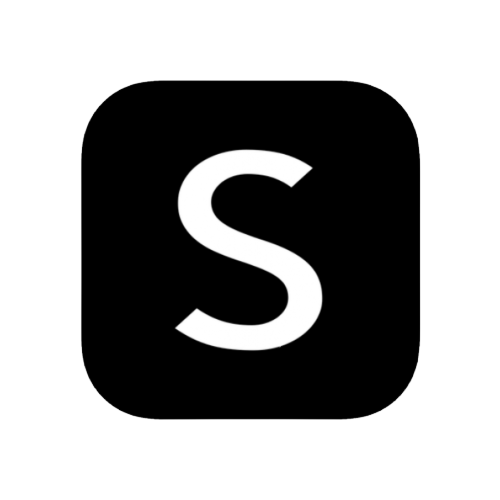
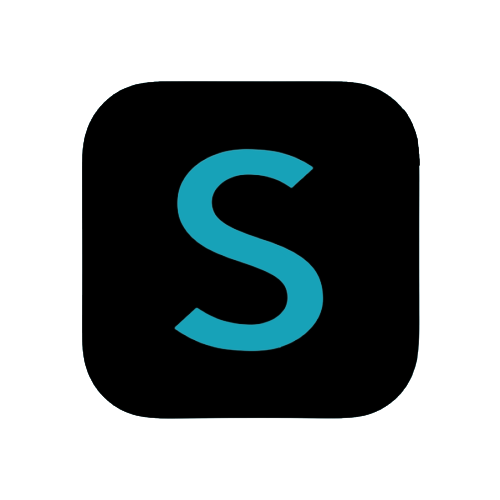
cambios

diff --git a/Proyecto/Contacto.html b/Proyecto/Contacto.html
@@ -74,23 +74,23 @@
       <div class="col-lg-1 d-none d-lg-block border-right">
         <div class="d-flex lista">
           <ul class="list-unstyled  ">
-            <li class="sideways"><a href="https://www.instagram.com/?hl=es-la" class="text-light"> Instagram</a></li>
-            <li class="sideways"><a href="https://www.facebook.com" class="text-light"> Facebook</a></li>
-            <li class="sideways"><a href="https://twitter.com" class="text-light"> Twitter</a></li>
-            <li class="sideways"><a href="https://www.whatsapp.com" class="text-light"> WhatsApp</a></li>
+            <li class="sideways"><a href="https://www.instagram.com/?hl=es-la" class="boton"> Instagram</a></li>
+            <li class="sideways"><a href="https://www.facebook.com" class="boton"> Facebook</a></li>
+            <li class="sideways"><a href="https://twitter.com" class="boton"> Twitter</a></li>
+            <li class="sideways"><a href="https://www.whatsapp.com" class="boton"> WhatsApp</a></li>
           </ul>
         </div>
       </div>
 
       <div class="col-lg-6 col-md-6 col-sm-11 p-1">
-        <div class="mapouter container align-self-center px-5 content">
+        <div class="mapouter container align-self-center px-5 content mapa">
           <div class="gmap_canvas">
             <iframe width="600" height="500" id="gmap_canvas"
               src="https://maps.google.com/maps?q=tegucigalpa&t=&z=15&ie=UTF8&iwloc=&output=embed" frameborder="0"
               scrolling="no" marginheight="0" marginwidth="0">
 
             </iframe>
-            <a href="https://123movies-to.org">123movies</a>
+            
             <br>
             <style>
               .mapouter {
@@ -98,7 +98,7 @@
                 text-align: right;
               }
             </style>
-            <a href="https://www.embedgooglemap.net">embed google map into website</a>
+            
             <style>
               .gmap_canvas {
                 overflow: hidden;
@@ -110,7 +110,7 @@
       </div>
 
       <div class="col-lg-5 col-md-6 col-sm-11 d-flex p-1">
-        <div class="container align-self-center px-5 content form">
+        <div class="container align-self-center px-5 content form formulario">
           <!-- Default form contact -->
           <form class="text-center border border-light p-5" action="#!" id="form">
 

diff --git a/Proyecto/homePage.html b/Proyecto/homePage.html
@@ -42,7 +42,7 @@
               </li>
 
               <div class="dropdown boton">
-                <button style="border: none; padding-top: 9px; padding-left: 10px; font-weight: 200;"
+                <button style="border: none; padding-top: 9px; font-weight: 200;"
                   class=" boton lead nav-link" type="button" id="dropdownMenuMenu" data-toggle="dropdown"
                   aria-haspopup="true" aria-expanded="false">
                   Categorias
@@ -77,23 +77,21 @@
             <li class="sideways"><a href="https://www.facebook.com" class="boton"> Facebook</a></li>
             <li class="sideways"><a href="https://twitter.com" class="boton"> Twitter</a></li>
             <li class="sideways"><a href="https://www.whatsapp.com" class="boton"> WhatsApp</a></li>
-
           </ul>
         </div>
-
       </div>
 
 
       <div class="col-lg-4 col-md-5 col-sm-11  d-flex">
         <div class="container align-self-center px-5 content">
-          <h1 class="text-uppercase font-weight-bold mb-4">¡Tu Ropa Perfecta!</h1>
+          <h1 class="text-uppercase font-weight-bold mb-4 titulo">¡Tu Ropa Perfecta!</h1>
           <p class="lead-xl mb-4">Obtenemos nuestros insumos de las mejores fabricas y lo convertimos en la ropa ideal
           </p>
-          <a href="#" class="btn btn-primary">Comenzar</a>
+          
         </div>
       </div>
       
-      <div class="col-lg-6 col-md-6 col-sm-11  mt-10 p-4">
+      <div class="col-lg-6 col-md-6 col-sm-11  mt-10  bajar">
         <div id="carouselExampleIndicators" class="carousel slide" data-ride="carousel">
           <ol class="carousel-indicators">
             <li data-target="#carouselExampleIndicators" data-slide-to="0" class="active"></li>
@@ -159,7 +157,7 @@
             <!--Grid column-->
             <div class="col-auto">
               <p class="pt-2">
-                <strong>Suscribete a nuestro boletín</strong>
+                <strong class="titulo">Suscribete a nuestro boletín</strong>
               </p>
             </div>
             <!--Grid column-->

diff --git a/Proyecto/style.css b/Proyecto/style.css
@@ -9,34 +9,42 @@
 body{
     font-family: 'Oswald', sans-serif;
     font-weight: 200;
-    background-color: var(--color-dark);
+    background-image: url(https://img.freepik.com/foto-gratis/viejo-fondo-negro-textura-grunge-papel-tapiz-oscuro-pizarra-pizarra-pared-habitacion_1258-28313.jpg?size=626&ext=jpg&ga=GA1.2.1558626103.1637625600);
+   
     color: var(--color-light) ;
     letter-spacing: .05rem;
 }
+.mapa{
+    padding-top: 45px;
+}
+
 .letra{
     color: black;
 }
-.bg-light {
-    background-color: var(--color-light);
+.bajar{
+    padding-top:50px !important;
+    padding-left: 4;
+    padding-right: 4;
 }
-
-hr{
-    background-color: var(--color-light);
+.formulario{
+    background-color: transparent !important;
 }
 .boton{
-    background-color: var(--color-dark);
     color: var(--color-light);
+    background-color: transparent;
 }
 .lista {
     justify-content: space-around;
 }
 .boton:hover{
-    background-color: var(--color-dark);
     color: var(--color-blue)!important; 
     text-decoration: none !important;;
 }
+.titulo{
+    color: var(--color-blue)!important;
+}
 .boton:focus{
-    background-color: var(--color-dark);
+ 
      color:var(--color-light);
      outline:none;
 }
@@ -63,7 +71,6 @@ hr{
 }
 
 .btn-primary:hover {
-    background-color: var(--color-light);
     color: var(--color-dark);
     border: 1px solid var(--color-light);
 }

diff --git a/Proyecto/tooplate_style.css b/Proyecto/tooplate_style.css
@@ -1,4 +1,7 @@
-
+@import url('https://fonts.googleapis.com/css2?family=Oswald:wght@200;600&display=swap');
+body{
+	font-family: 'Oswald', sans-serif !important;
+}
 a:hover { 
 	text-decoration: underline; 
 }
@@ -6,9 +9,10 @@ a:hover {
 p { 
 	margin: 0 0 10px 0; 
 	padding: 0; 
+	font-size: 20px;
 }
 
-h1, h2, h3, h4, h5, h6 { color: #e5a923; font-weight: normal; 	font-family: Tahoma, Geneva, sans-serif }
+h1, h2, h3, h4, h5, h6 { color:#17A2B8 ; font-weight: normal; }
 h1 { font-size: 48px; margin: 0 0 30px; padding: 5px 0 }
 h2 { font-size: 30px; margin: 0 0 25px; padding: 5px 0; }
 h3 { font-size: 36px; margin: 0 0 25px; padding: 0; }

diff --git a/Proyecto/AcercaNostros.html b/Proyecto/AcercaNostros.html
@@ -91,7 +91,7 @@
         <div class="container content">
 
           <div class="col_w630 float_l">
-            <h2>Sobre Nosotros</h2>
+            <h1>Sobre Nosotros</h1>
 
             <p><em>Somos una empresa globalizada</em></p>
             <p>Trabajamos con empresas para ser capaces de reducir el costo y gasto de nuestro inventrorio y poder dar a
